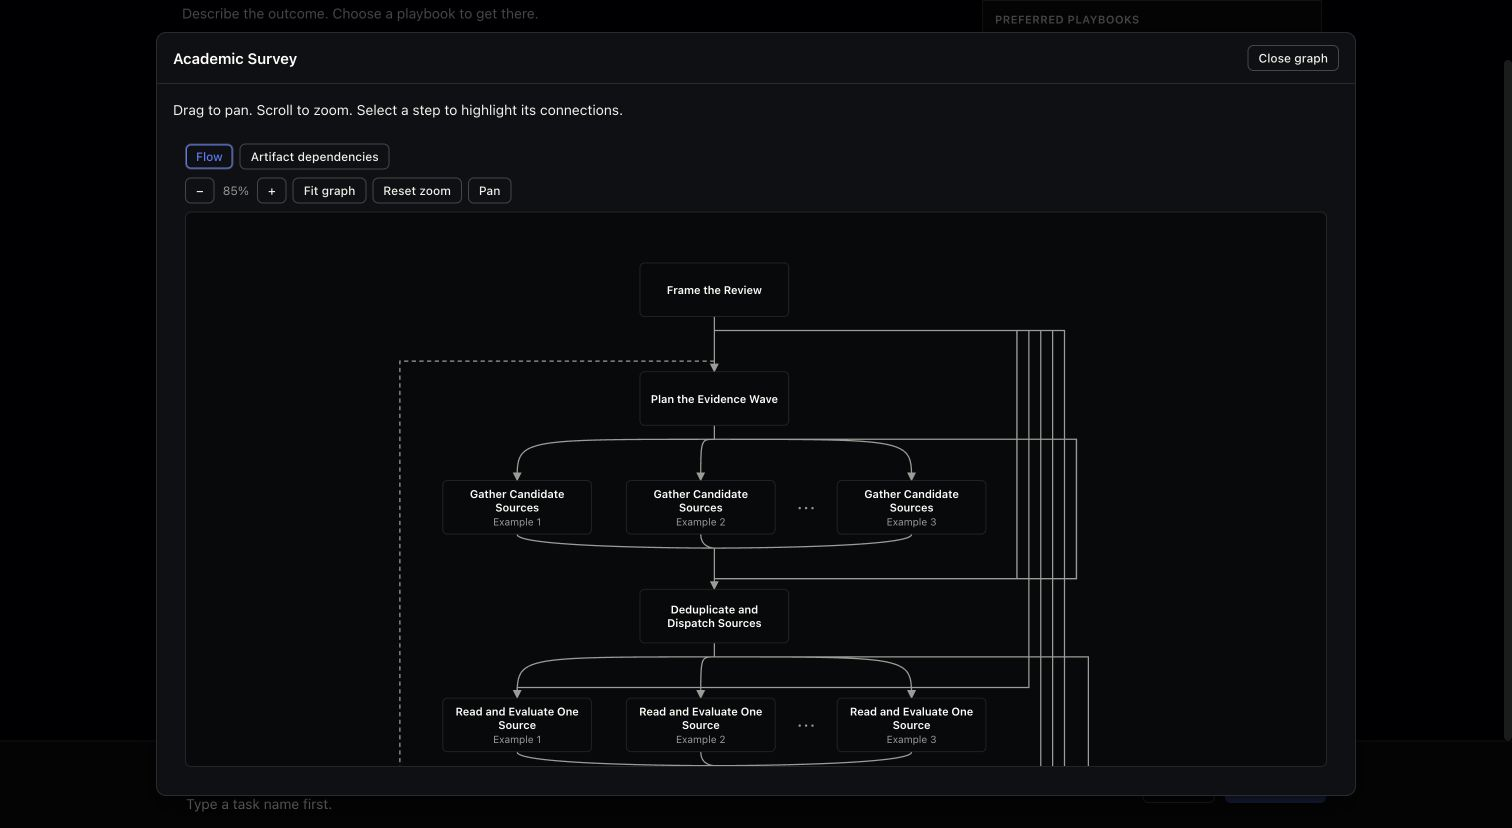
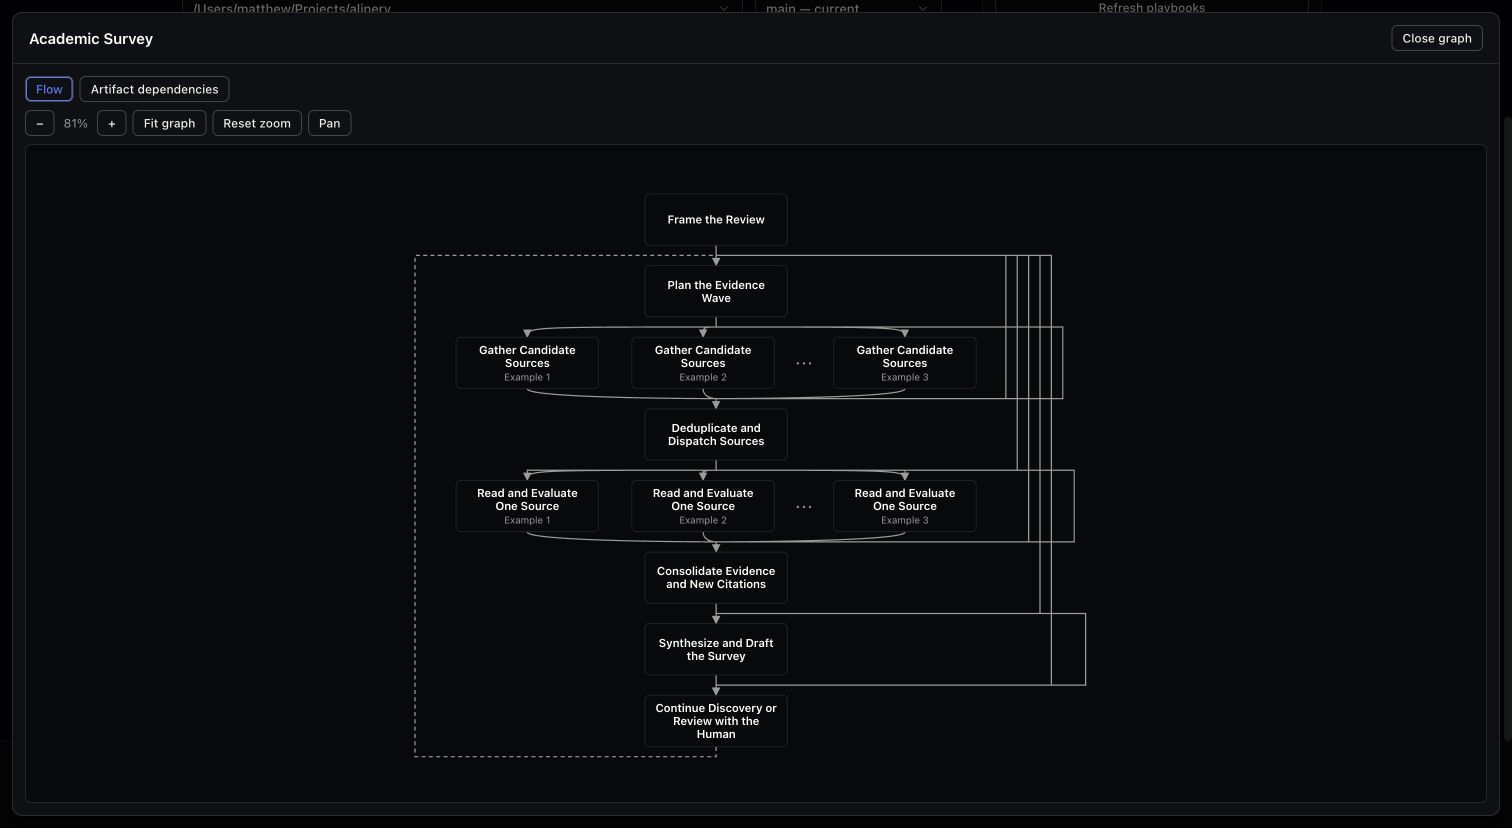
fix: fit the complete playbook flow and clarify preview steps

diff --git a/alinery-app/src/PlaybookGraph.tsx b/alinery-app/src/PlaybookGraph.tsx
@@ -42,6 +42,7 @@ export function PlaybookGraph({
   simulatedStatuses,
   hideToolbar = false,
   minScale,
+  compact = false,
 }: {
   title: string;
   steps: NormalizedStep[];
@@ -59,6 +60,8 @@ export function PlaybookGraph({
   hideToolbar?: boolean;
   /** Lower zoom bound; also floors auto-fit so compact embeds stay legible and pan instead. */
   minScale?: number;
+  /** Compact unlabeled flow spacing and keep the overview fitted as its viewport changes. */
+  compact?: boolean;
 }) {
   const [selectedKey, setSelectedKey] = useState<string | null>(null);
   const activeKey = selectedStepKey !== undefined ? selectedStepKey : selectedKey;
@@ -129,9 +132,12 @@ export function PlaybookGraph({
             steps.map((step) => step.key),
             displayMode === "flow" ? flowConnections : connections,
             new Set(steps.filter((step) => step.inputs.some((input) => input.mode === "each")).map((step) => step.key)),
+            undefined,
+            undefined,
+            compact,
           )
         : null,
-    [variant, steps, displayMode, flowConnections, connections],
+    [variant, steps, displayMode, flowConnections, connections, compact],
   );
 
   useLayoutEffect(() => {
@@ -151,7 +157,7 @@ export function PlaybookGraph({
       // Skip transient collapsed layouts: fitting into a sliver would pin the camera at the
       // min scale; the observer retries once the viewport has real room.
       const viewportReady = viewport.clientWidth > 2 * FIT_PADDING && viewport.clientHeight > 2 * FIT_PADDING;
-      if (!initializedViewRef.current && viewportReady && canvas.offsetWidth > 0 && canvas.offsetHeight > 0) {
+      if ((!initializedViewRef.current || compact) && viewportReady && canvas.offsetWidth > 0 && canvas.offsetHeight > 0) {
         fit(canvas.offsetWidth, canvas.offsetHeight);
         initializedViewRef.current = true;
       }
@@ -163,7 +169,7 @@ export function PlaybookGraph({
     observer.observe(viewport);
     observer.observe(canvas);
     return () => observer.disconnect();
-  }, [canvasEnabled, layout, showInspector, fit, paintView, viewRef]);
+  }, [canvasEnabled, layout, showInspector, fit, paintView, viewRef, compact]);
 
   useLayoutEffect(() => {
     if (!selectedStepKey || !simulatedStatuses?.[selectedStepKey]) return;
@@ -191,7 +197,7 @@ export function PlaybookGraph({
         ? layout.edges.filter(({ from, to }) => from === selectedStep.key || to === selectedStep.key)
         : layout.edges;
     return (
-      <section className="playbook-graph-view playbook-definition-graph" aria-label={`${title} graph`}>
+      <section className={`playbook-graph-view playbook-definition-graph${compact ? " compact" : ""}`} aria-label={`${title} graph`}>
         {!hideToolbar && (
           <div className="playbook-canvas-toolbar" role="group" aria-label="Graph display mode">
             <button type="button" className="btn ghost small" aria-pressed={displayMode === "flow"} onClick={() => setDisplayMode("flow")}>

diff --git a/alinery-app/src/theme.css b/alinery-app/src/theme.css
@@ -2051,22 +2051,24 @@ main {
   background: var(--surface-subtle);
 }
 .create-step-preview { display: grid; gap: 12px; padding: 0 16px 16px; }
-.create-step-preview ul { display: grid; gap: 10px; margin: 0; padding: 0; list-style: none; }
-.create-step-preview li { display: flex; flex-wrap: wrap; align-items: baseline; gap: 4px 8px; color: var(--text); font-size: calc(13px * var(--ui-scale)); line-height: 1.4; }
-.create-step-preview .create-step-multiplicity { color: var(--text-muted); font-size: calc(11px * var(--ui-scale)); }
+.create-step-preview ol { display: grid; gap: 6px; margin: 0; padding: 0; list-style: none; }
+.create-step-preview li { display: grid; grid-template-columns: auto minmax(0, 1fr); align-items: start; gap: 10px; padding: 7px 10px; border: 1px solid var(--border); border-radius: var(--radius-sm); background: var(--surface); color: var(--text); font-size: calc(13px * var(--ui-scale)); line-height: 1.4; }
+.create-step-number { display: inline-grid; place-items: center; width: calc(22px * var(--ui-scale)); height: calc(22px * var(--ui-scale)); border: 1px solid var(--border-strong); border-radius: 50%; color: var(--text-muted); font-size: calc(11px * var(--ui-scale)); font-variant-numeric: tabular-nums; }
+.create-step-copy { display: grid; align-self: center; gap: 5px; min-width: 0; }
+.create-step-title { color: var(--text-strong); font-weight: 500; overflow-wrap: anywhere; }
+.create-step-preview .create-step-multiplicity { justify-self: start; color: var(--text-muted); font-size: calc(10px * var(--ui-scale)); }
 .create-step-preview > button { justify-self: start; }
 .modal.create-graph-dialog {
-  width: min(1200px, calc(100vw - 48px));
-  height: calc(100dvh - 64px);
+  width: calc(100vw - 24px);
+  height: calc(100dvh - 24px);
   max-width: none;
   max-height: none;
   display: flex;
   flex-direction: column;
 }
 .create-graph-dialog .mh { flex-shrink: 0; gap: 16px; }
-.create-graph-dialog-body { display: flex; flex-direction: column; flex: 1; min-height: 0; padding: 16px; }
-.create-graph-dialog-body > .hint { margin: 0 0 12px; line-height: 1.4; }
-.create-graph-dialog-body > .playbook-definition-graph { flex: 1; min-height: 0; }
+.create-graph-dialog-body { display: flex; flex-direction: column; flex: 1; min-height: 0; padding: 12px; }
+.create-graph-dialog-body > .playbook-definition-graph { flex: 1; min-height: 0; padding: 0; }
 .create-graph-dialog .playbook-definition-viewport { min-height: 0; }
 .playbook-option {
   position: relative;

diff --git a/alinery-app/src/views/CreateTaskPage.tsx b/alinery-app/src/views/CreateTaskPage.tsx
@@ -1506,14 +1506,19 @@ export function CreateTaskPage({
                             Preview {selectedSource.definition.step.length} {selectedSource.definition.step.length === 1 ? "step" : "steps"}
                           </summary>
                           <div className="create-step-preview">
-                            <ul aria-label={`${item.title ?? selectedSource.definition.title} steps`}>
-                              {selectedSource.definition.step.map((step) => (
+                            <ol aria-label={`${item.title ?? selectedSource.definition.title} steps`}>
+                              {selectedSource.definition.step.map((step, index) => (
                                 <li key={step.key}>
-                                  <span>{step.title}</span>
-                                  {step.inputs.some((input) => input.mode === "each") && <span className="create-step-multiplicity">Per artifact</span>}
+                                  <span className="create-step-number" aria-hidden="true">
+                                    {index + 1}
+                                  </span>
+                                  <span className="create-step-copy">
+                                    <span className="create-step-title">{step.title}</span>
+                                    {step.inputs.some((input) => input.mode === "each") && <span className="pill create-step-multiplicity">Per artifact</span>}
+                                  </span>
                                 </li>
                               ))}
-                            </ul>
+                            </ol>
                             <button type="button" className="btn ghost small" onClick={() => setGraphOpen(true)}>
                               Open graph
                             </button>
@@ -1575,8 +1580,7 @@ export function CreateTaskPage({
             </button>
           </div>
           <div className="create-graph-dialog-body">
-            <p className="hint">Drag to pan. Scroll to zoom. Select a step to highlight its connections.</p>
-            <PlaybookGraph title={selectedSource.definition.title} steps={selectedSource.definition.step} variant="definition" showInspector={false} minScale={0.85} />
+            <PlaybookGraph title={selectedSource.definition.title} steps={selectedSource.definition.step} variant="definition" showInspector={false} compact />
           </div>
         </Dialog>
       )}

diff --git a/alinery-app/src/playbookGraphLayout.ts b/alinery-app/src/playbookGraphLayout.ts
@@ -87,6 +87,7 @@ export function layoutDefinitionGraph(
   repeatedKeys: ReadonlySet<string> = new Set(),
   labelLineHeight = LABEL_LINE_HEIGHT,
   nodeHeights?: ReadonlyMap<string, number>,
+  compact = false,
 ): DefinitionGraphLayout {
   const combined = new Map<string, { from: string; to: string; labels: Set<string> }>();
   for (const connection of connections) {
@@ -101,6 +102,7 @@ export function layoutDefinitionGraph(
     }
   }
   const links = [...combined.values()].map(({ from, to, labels }) => ({ from, to, label: [...labels].join("\n") }));
+  const compactFlow = compact && links.every((link) => !link.label);
   const outgoing: Record<string, (typeof links)[number][]> = Object.fromEntries(keys.map((key) => [key, []]));
   const incoming: Record<string, number> = Object.fromEntries(keys.map((key) => [key, 0]));
   for (const link of links) {
@@ -196,11 +198,11 @@ export function layoutDefinitionGraph(
 
   // Pack labels in the gap after their source rank. Overlapping horizontal spans get
   // separate rows; side labels can share rows with ordinary dependency labels.
-  const gapHeights = layers.map(() => 64);
+  const gapHeights: number[] = layers.map(() => (compactFlow ? 24 : 64));
   const labelsByRank = layers.map(() => [] as (typeof routes)[number][]);
   for (const route of routes) {
     const placed = labelsByRank[ranks[route.from]];
-    let y = 16;
+    let y = compactFlow ? 12 : 16;
     if (route.height) {
       for (const other of placed) {
         if (route.labelX < other.labelX + other.width + LABEL_GAP && route.labelX + route.width + LABEL_GAP > other.labelX) {
@@ -210,7 +212,7 @@ export function layoutDefinitionGraph(
       placed.push(route);
     }
     route.gapY = y;
-    gapHeights[ranks[route.from]] = Math.max(gapHeights[ranks[route.from]], y + route.height + 28);
+    if (!compactFlow) gapHeights[ranks[route.from]] = Math.max(gapHeights[ranks[route.from]], y + route.height + 28);
   }
   // Center the packed label rows, leaving a clear arrival strip above the next rank.
   for (const [rank, placed] of labelsByRank.entries()) {

diff --git a/alinery-app/src/PlaybookGraph.test.tsx b/alinery-app/src/PlaybookGraph.test.tsx
@@ -1,4 +1,4 @@
-import { cleanup, fireEvent, render, screen, within } from "@testing-library/react";
+import { act, cleanup, fireEvent, render, screen, within } from "@testing-library/react";
 import { afterEach, beforeEach, expect, it, vi } from "vitest";
 import { PlaybookGraph } from "./PlaybookGraph";
 import { GRAPH_NODE_HEIGHT, GRAPH_NODE_WIDTH, layoutDefinitionGraph } from "./playbookGraphLayout";
@@ -552,6 +552,35 @@ it("preserves node selection and inspector content after zoom and background pan
   expect(screen.getByLabelText("worker prompt").textContent).toBe(worker.prompt);
   expect(camera(viewport)).toEqual(panned);
   expect(screen.getByLabelText("Graph zoom").textContent).toBe(`${Math.round(panned.scale * 100)}%`);
+});
+
+it("refits a compact overview when its viewport shrinks, while retaining manual zoom between resizes", () => {
+  mockCanvasDimensions();
+  let resized = () => {};
+  vi.stubGlobal(
+    "ResizeObserver",
+    class {
+      constructor(callback: () => void) {
+        resized = callback;
+      }
+      observe() {}
+      disconnect() {}
+    },
+  );
+  render(<PlaybookGraph variant="definition" title="Review" steps={denseSteps} compact showInspector={false} />);
+  const viewport = screen.getByRole("region", { name: "Dependency graph canvas" });
+  const initial = camera(viewport);
+  fireEvent.click(screen.getByRole("button", { name: "Zoom in" }));
+  expect(camera(viewport).scale).toBeGreaterThan(initial.scale);
+  vi.spyOn(viewport, "clientWidth", "get").mockReturnValue(400);
+  vi.spyOn(viewport, "clientHeight", "get").mockReturnValue(250);
+  act(() => resized());
+  const fitted = camera(viewport);
+  expect(fitted.scale).toBeLessThan(initial.scale);
+  expect(fitted.tx).toBeGreaterThanOrEqual(16);
+  expect(fitted.ty).toBeGreaterThanOrEqual(16);
+  expect(fitted.tx + 1000 * fitted.scale).toBeLessThanOrEqual(384);
+  expect(fitted.ty + 500 * fitted.scale).toBeLessThanOrEqual(234);
 });
 
 it("reveals keyboard-focused nodes without intercepting their keys", () => {

diff --git a/alinery-app/src/playbookGraphLayout.test.ts b/alinery-app/src/playbookGraphLayout.test.ts
@@ -261,6 +261,24 @@ it("handles graphs without ordering connections", () => {
   expect(reduceFlowConnections([])).toEqual([]);
 });
 
+it("compacts an eight-step flow without losing fan-out, bypass or return connections", () => {
+  const keys = ["frame", "plan", "gather", "dispatch", "read", "consolidate", "synthesize", "continue"];
+  const links = [...keys.slice(1).map((to, index) => ({ from: keys[index], to })), ...keys.slice(3).map((to) => ({ from: "frame", to })), { from: "continue", to: "plan" }];
+  const repeated = new Set(["gather", "read"]);
+  const regular = layoutDefinitionGraph(keys, links, repeated);
+  const compact = layoutDefinitionGraph(keys, links, repeated, undefined, undefined, true);
+  expect(compact.height).toBeLessThanOrEqual(800);
+  expect(compact.height).toBeLessThan(regular.height);
+  expect(compact.nodes.map(({ id, instance }) => ({ id, instance }))).toEqual(regular.nodes.map(({ id, instance }) => ({ id, instance })));
+  expect(compact.edges.map(({ from, to, paths, feedback }) => ({ from, to, count: paths.length, feedback }))).toEqual(
+    regular.edges.map(({ from, to, paths, feedback }) => ({ from, to, count: paths.length, feedback })),
+  );
+  expectBounded(compact);
+
+  const labeled = links.map((link) => ({ ...link, label: "artifact.md" }));
+  expect(layoutDefinitionGraph(keys, labeled, repeated, undefined, undefined, true)).toEqual(layoutDefinitionGraph(keys, labeled, repeated));
+});
+
 it("keeps producer output footers clear of edges and later ranks, including terminal outputs", () => {
   const heights = new Map([
     ["root", 144],

diff --git a/alinery-app/src/PlaybookGraph.css b/alinery-app/src/PlaybookGraph.css
@@ -267,6 +267,9 @@
 .playbook-definition-node.illustrative .playbook-definition-node-title {
   -webkit-line-clamp: 2;
 }
+.playbook-definition-graph.compact .playbook-definition-node-title {
+  font-size: calc(14px * var(--ui-scale));
+}
 .playbook-definition-instance {
   color: var(--text-muted);
   font-size: calc(12px * var(--ui-scale));
